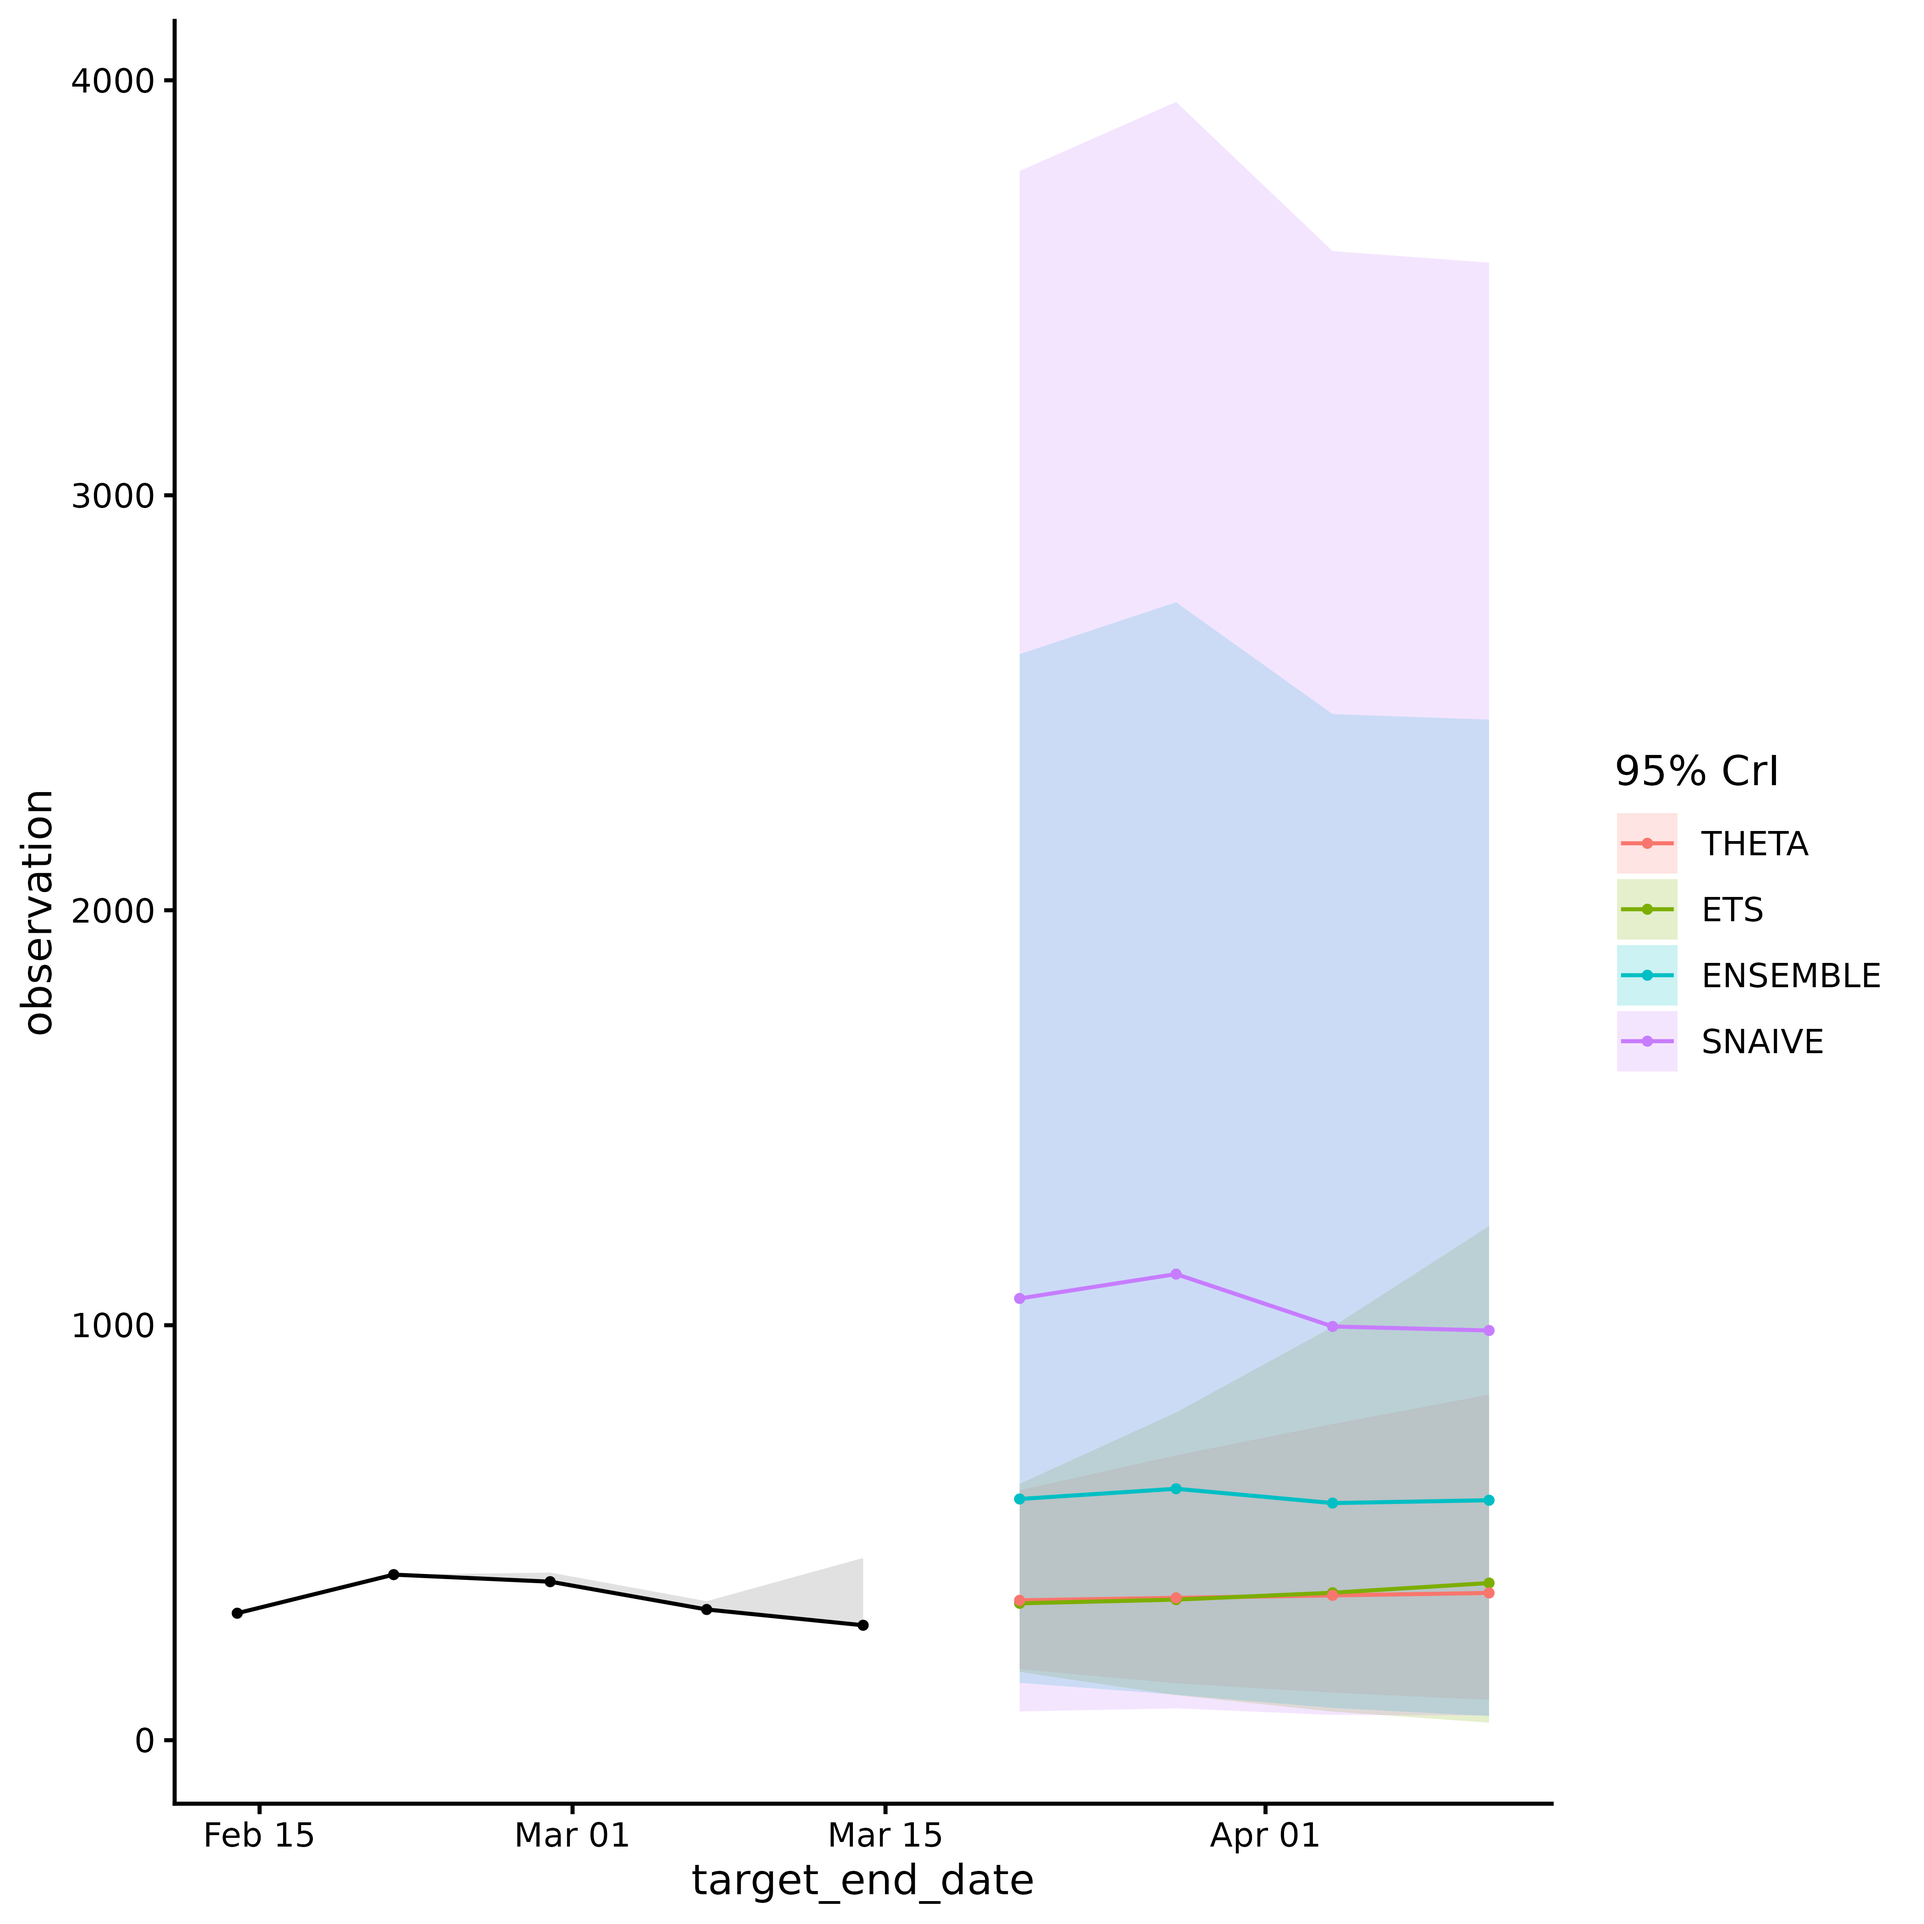
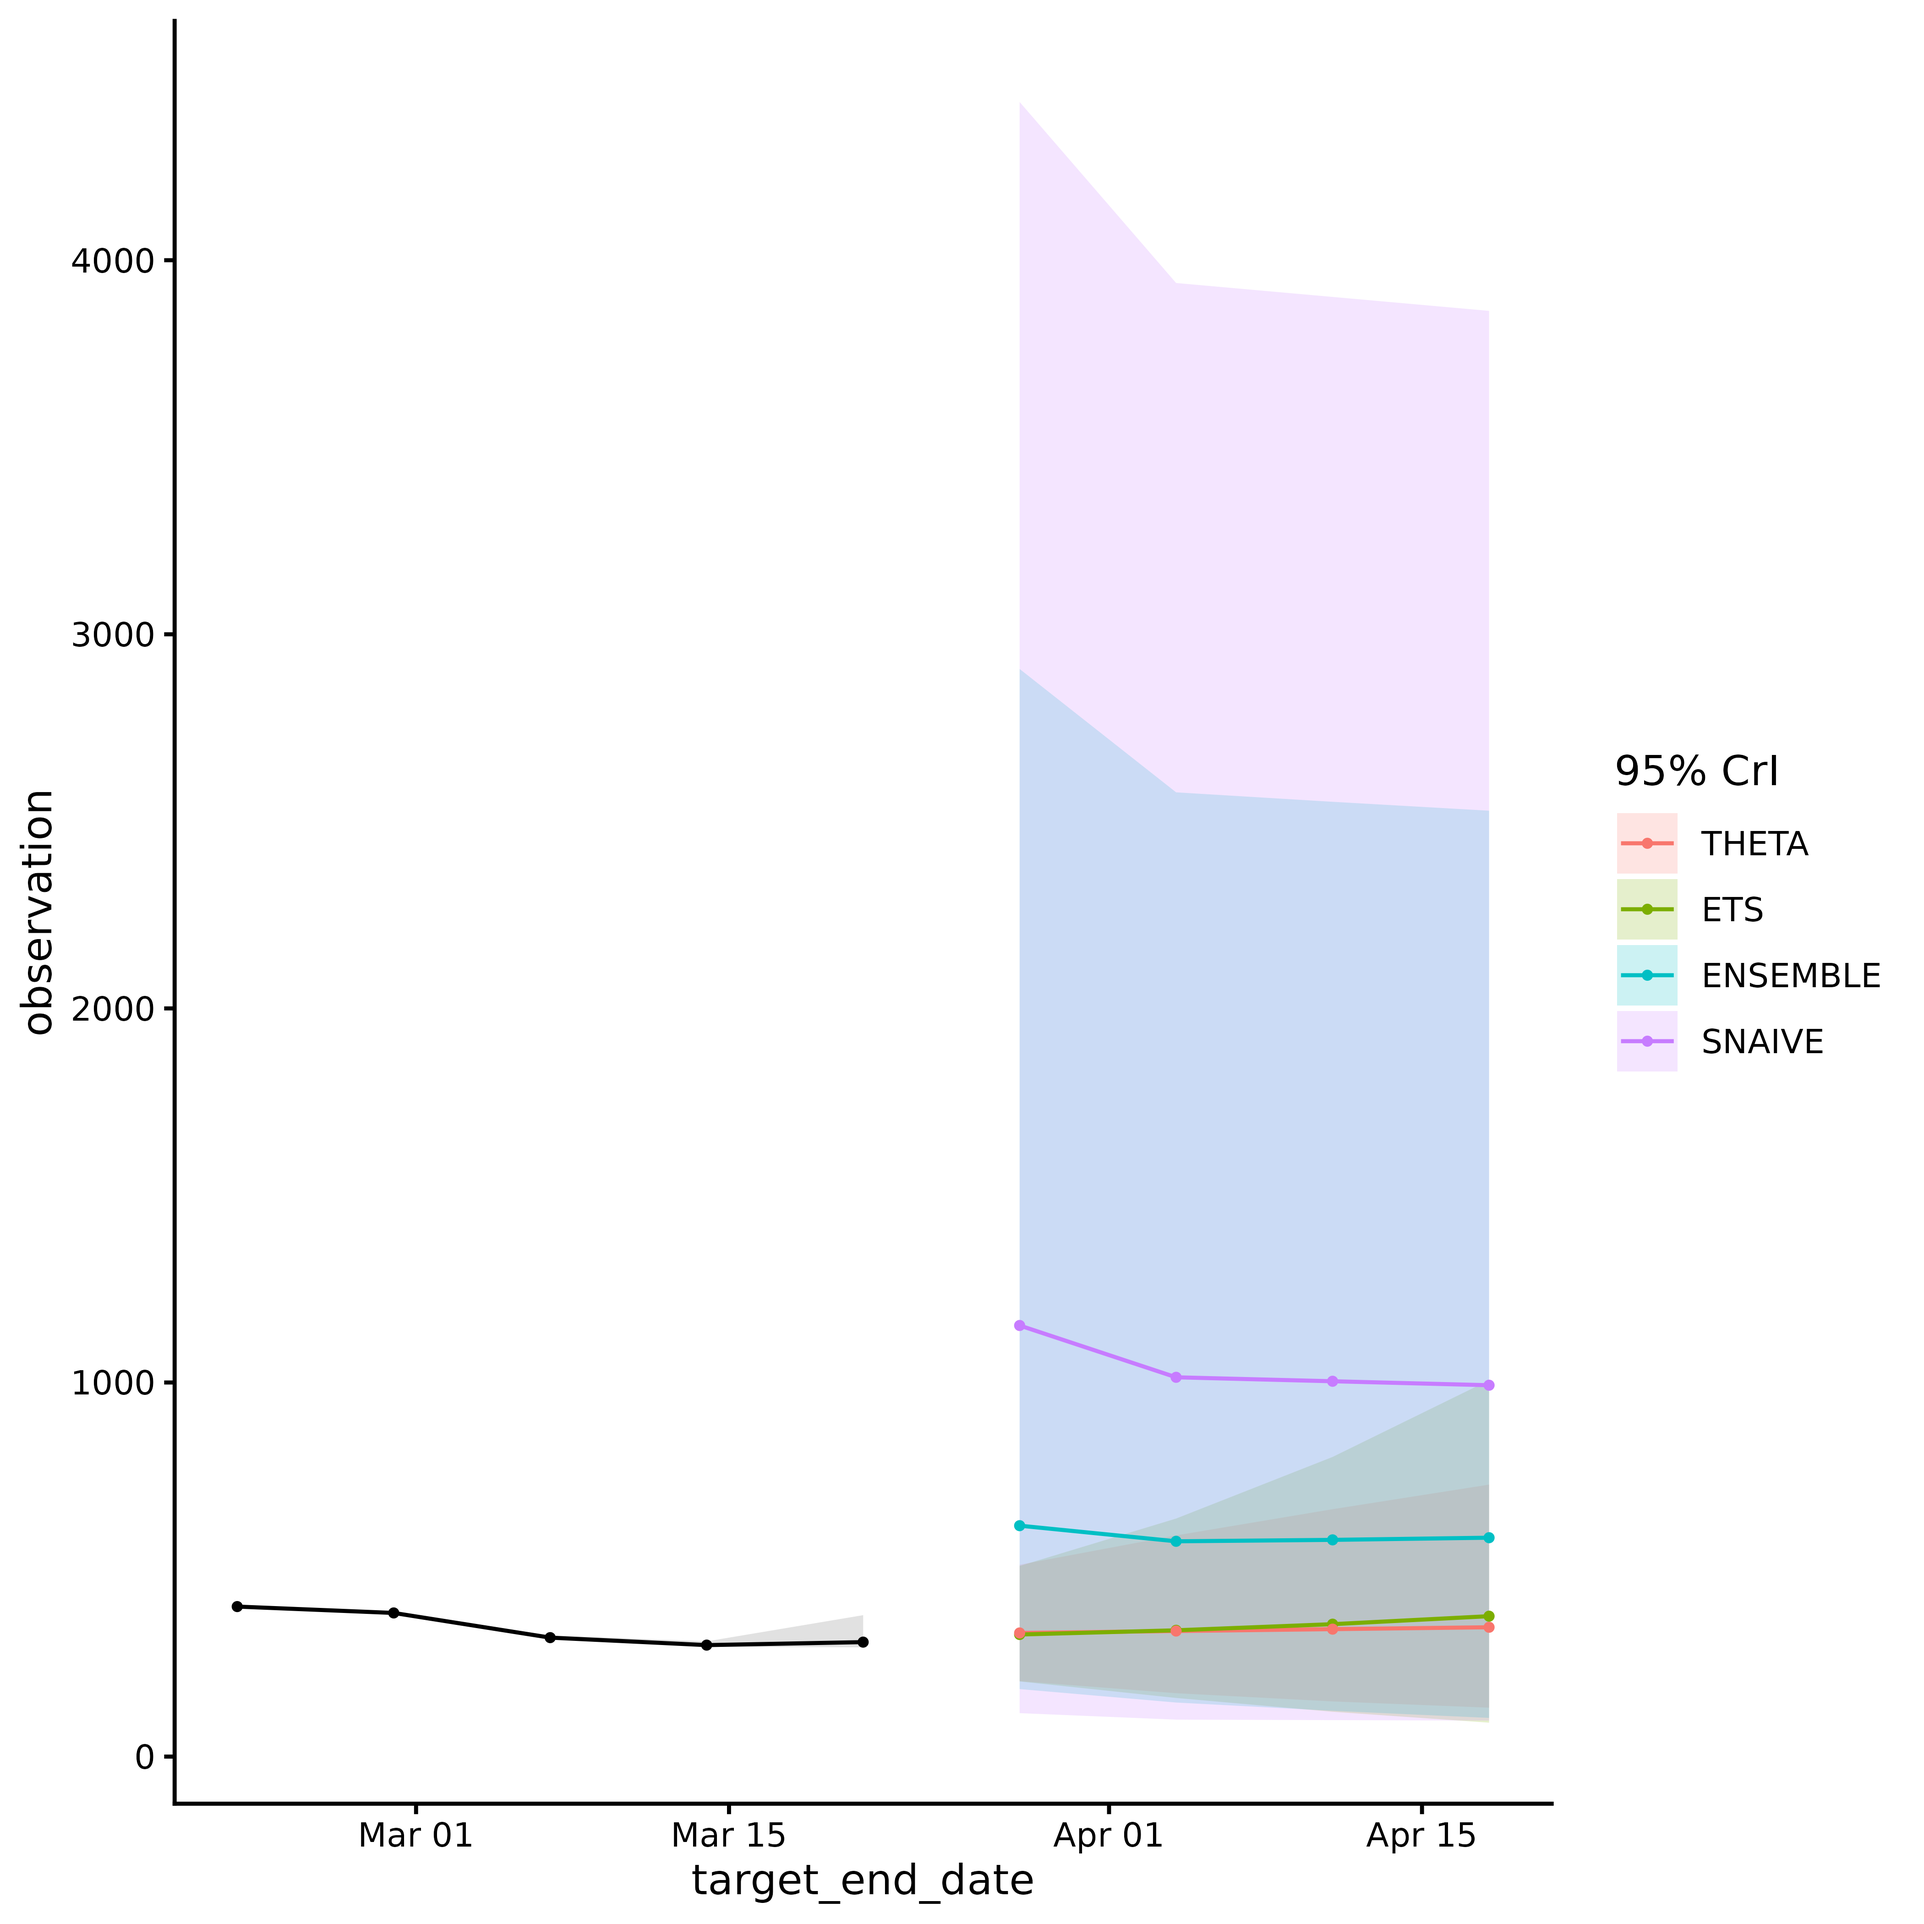
Deploying to gh-pages from @ ACCIDDA/acciddasuite@6ad617f50e384ec4112454da09e79848813a386f 🚀

diff --git a/articles/acciddasuite.html b/articles/acciddasuite.html
@@ -118,8 +118,8 @@ object:</p>
 <span><span class="co">#&gt; </span></span>
 <span><span class="co">#&gt; Location: NY </span></span>
 <span><span class="co">#&gt; Target:   wk inc covid hosp </span></span>
-<span><span class="co">#&gt; Window:   2020-08-08 to 2026-03-14 ( 293 dates )</span></span>
-<span><span class="co">#&gt; History:  TRUE ( 2024-11-17 to 2026-03-15 )</span></span></code></pre></div>
+<span><span class="co">#&gt; Window:   2020-08-08 to 2026-03-21 ( 294 dates )</span></span>
+<span><span class="co">#&gt; History:  TRUE ( 2024-11-17 to 2026-03-22 )</span></span></code></pre></div>
 <p>You can also <strong>bring your own data</strong>. Just pass it
 through <code><a href="../reference/check_data.html">check_data()</a></code>. See
 <code><a href="../articles/external_data.html">vignette("external_data")</a></code> for formatting details.</p>
@@ -140,9 +140,9 @@ before that is left untouched.</p>
 <span><span class="va">ncast</span></span>
 <span><span class="co">#&gt; &lt;accidda_ncast&gt;</span></span>
 <span><span class="co">#&gt; </span></span>
-<span><span class="co">#&gt; Nowcasted 4 weeks: 2026-02-21 to 2026-03-14 </span></span>
+<span><span class="co">#&gt; Nowcasted 4 weeks: 2026-02-28 to 2026-03-21 </span></span>
 <span><span class="co">#&gt; </span></span>
-<span><span class="co">#&gt; $data  corrected series (293 rows)</span></span>
+<span><span class="co">#&gt; $data  corrected series (294 rows)</span></span>
 <span><span class="co">#&gt; $plot  nowcast visualisation</span></span></code></pre></div>
 <div class="sourceCode" id="cb3"><pre class="downlit sourceCode r">
 <code class="sourceCode R"><span><span class="va">ncast</span><span class="op">$</span><span class="va">plot</span></span></code></pre></div>
@@ -204,14 +204,14 @@ selection and forecasting steps take.</p>
 <span><span class="co">#&gt; Models evaluated:</span></span>
 <span><span class="co">#&gt;  model_id       wis</span></span>
 <span><span class="co">#&gt;    &lt;char&gt;     &lt;num&gt;</span></span>
-<span><span class="co">#&gt;     THETA  29.60211</span></span>
-<span><span class="co">#&gt;       ETS  34.11226</span></span>
-<span><span class="co">#&gt;  ENSEMBLE  64.08897</span></span>
-<span><span class="co">#&gt;    SNAIVE 240.14106</span></span>
+<span><span class="co">#&gt;     THETA  32.19275</span></span>
+<span><span class="co">#&gt;       ETS  38.12778</span></span>
+<span><span class="co">#&gt;  ENSEMBLE  62.15294</span></span>
+<span><span class="co">#&gt;    SNAIVE 234.21581</span></span>
 <span><span class="co">#&gt; </span></span>
 <span><span class="co">#&gt; Forecast horizon:</span></span>
-<span><span class="co">#&gt;   From: 2026-02-14 </span></span>
-<span><span class="co">#&gt;   To:   2026-04-11 </span></span>
+<span><span class="co">#&gt;   From: 2026-02-21 </span></span>
+<span><span class="co">#&gt;   To:   2026-04-18 </span></span>
 <span><span class="co">#&gt; </span></span>
 <span><span class="co">#&gt; Contents:</span></span>
 <span><span class="co">#&gt;   $hubcast   hub forecast object</span></span>
@@ -227,16 +227,16 @@ the object:</p>
 <span><span class="co">#&gt; Key: &lt;model_id&gt;</span></span>
 <span><span class="co">#&gt;    model_id       wis interval_coverage_50 interval_coverage_95</span></span>
 <span><span class="co">#&gt;      &lt;char&gt;     &lt;num&gt;                &lt;num&gt;                &lt;num&gt;</span></span>
-<span><span class="co">#&gt; 1:    THETA  29.60211                 1.00                    1</span></span>
-<span><span class="co">#&gt; 2:      ETS  34.11226                 1.00                    1</span></span>
-<span><span class="co">#&gt; 3: ENSEMBLE  64.08897                 1.00                    1</span></span>
-<span><span class="co">#&gt; 4:   SNAIVE 240.14106                 0.25                    1</span></span>
+<span><span class="co">#&gt; 1:    THETA  32.19275                 0.50                    1</span></span>
+<span><span class="co">#&gt; 2:      ETS  38.12778                 0.50                    1</span></span>
+<span><span class="co">#&gt; 3: ENSEMBLE  62.15294                 1.00                    1</span></span>
+<span><span class="co">#&gt; 4:   SNAIVE 234.21581                 0.25                    1</span></span>
 <span><span class="co">#&gt;    wis_relative_skill</span></span>
 <span><span class="co">#&gt;                 &lt;num&gt;</span></span>
-<span><span class="co">#&gt; 1:          0.4714677</span></span>
-<span><span class="co">#&gt; 2:          0.5433001</span></span>
-<span><span class="co">#&gt; 3:          1.0207340</span></span>
-<span><span class="co">#&gt; 4:          3.8246854</span></span></code></pre></div>
+<span><span class="co">#&gt; 1:          0.4951523</span></span>
+<span><span class="co">#&gt; 2:          0.5864380</span></span>
+<span><span class="co">#&gt; 3:          0.9559656</span></span>
+<span><span class="co">#&gt; 4:          3.6024407</span></span></code></pre></div>
 <div class="section level3">
 <h3 id="adding-custom-models">Adding custom models<a class="anchor" aria-label="anchor" href="#adding-custom-models"></a>
 </h3>
@@ -265,8 +265,8 @@ be passed via <code>extra_models</code>:</p>
 <code class="sourceCode R"><span><span class="fu">pipetime</span><span class="fu">::</span><span class="fu"><a href="https://rdrr.io/pkg/pipetime/man/get_log.html" class="external-link">get_log</a></span><span class="op">(</span><span class="op">)</span></span>
 <span><span class="co">#&gt; $log</span></span>
 <span><span class="co">#&gt;             timestamp       label duration unit</span></span>
-<span><span class="co">#&gt; 1 2026-03-20 23:18:11  base fcast 19.37087 secs</span></span>
-<span><span class="co">#&gt; 2 2026-03-20 23:18:34 extra fcast 26.19091 secs</span></span></code></pre></div>
+<span><span class="co">#&gt; 1 2026-03-31 15:51:11  base fcast 18.93266 secs</span></span>
+<span><span class="co">#&gt; 2 2026-03-31 15:51:34 extra fcast 26.27124 secs</span></span></code></pre></div>
 </div>
 </div>
 <div class="section level2">

diff --git a/reference/get_data.html b/reference/get_data.html
@@ -95,7 +95,7 @@ which is needed by <code><a href="get_ncast.html">get_ncast</a></code>.</p>
 <span class="r-out co"><span class="r-pr">#&gt;</span> </span>
 <span class="r-out co"><span class="r-pr">#&gt;</span> Location: NY </span>
 <span class="r-out co"><span class="r-pr">#&gt;</span> Target:   wk inc covid hosp </span>
-<span class="r-out co"><span class="r-pr">#&gt;</span> Window:   2020-08-08 to 2026-03-14 ( 293 dates )</span>
+<span class="r-out co"><span class="r-pr">#&gt;</span> Window:   2020-08-08 to 2026-03-21 ( 294 dates )</span>
 <span class="r-out co"><span class="r-pr">#&gt;</span> History:  FALSE</span>
 <span class="r-in"><span></span></span>
 <span class="r-in"><span><span class="co"># Fetch revision history for nowcasting</span></span></span>
@@ -104,8 +104,8 @@ which is needed by <code><a href="get_ncast.html">get_ncast</a></code>.</p>
 <span class="r-out co"><span class="r-pr">#&gt;</span> </span>
 <span class="r-out co"><span class="r-pr">#&gt;</span> Location: CA </span>
 <span class="r-out co"><span class="r-pr">#&gt;</span> Target:   wk inc covid hosp </span>
-<span class="r-out co"><span class="r-pr">#&gt;</span> Window:   2020-08-08 to 2026-03-14 ( 293 dates )</span>
-<span class="r-out co"><span class="r-pr">#&gt;</span> History:  TRUE ( 2024-11-17 to 2026-03-15 )</span>
+<span class="r-out co"><span class="r-pr">#&gt;</span> Window:   2020-08-08 to 2026-03-21 ( 294 dates )</span>
+<span class="r-out co"><span class="r-pr">#&gt;</span> History:  TRUE ( 2024-11-17 to 2026-03-22 )</span>
 </code></pre></div>
     </div>
   </main><aside class="col-md-3"><nav id="toc" aria-label="Table of contents"><h2>On this page</h2>

diff --git a/articles/acciddasuite.md b/articles/acciddasuite.md
@@ -48,8 +48,8 @@ df
 #> 
 #> Location: NY 
 #> Target:   wk inc covid hosp 
-#> Window:   2020-08-08 to 2026-03-14 ( 293 dates )
-#> History:  TRUE ( 2024-11-17 to 2026-03-15 )
+#> Window:   2020-08-08 to 2026-03-21 ( 294 dates )
+#> History:  TRUE ( 2024-11-17 to 2026-03-22 )
 ```
 
 You can also **bring your own data**. Just pass it through
@@ -75,9 +75,9 @@ ncast <- get_ncast(df)
 ncast
 #> <accidda_ncast>
 #> 
-#> Nowcasted 4 weeks: 2026-02-21 to 2026-03-14 
+#> Nowcasted 4 weeks: 2026-02-28 to 2026-03-21 
 #> 
-#> $data  corrected series (293 rows)
+#> $data  corrected series (294 rows)
 #> $plot  nowcast visualisation
 ```
 
@@ -147,14 +147,14 @@ fcast
 #> Models evaluated:
 #>  model_id       wis
 #>    <char>     <num>
-#>     THETA  29.60211
-#>       ETS  34.11226
-#>  ENSEMBLE  64.08897
-#>    SNAIVE 240.14106
+#>     THETA  32.19275
+#>       ETS  38.12778
+#>  ENSEMBLE  62.15294
+#>    SNAIVE 234.21581
 #> 
 #> Forecast horizon:
-#>   From: 2026-02-14 
-#>   To:   2026-04-11 
+#>   From: 2026-02-21 
+#>   To:   2026-04-18 
 #> 
 #> Contents:
 #>   $hubcast   hub forecast object
@@ -175,16 +175,16 @@ fcast$score
 #> Key: <model_id>
 #>    model_id       wis interval_coverage_50 interval_coverage_95
 #>      <char>     <num>                <num>                <num>
-#> 1:    THETA  29.60211                 1.00                    1
-#> 2:      ETS  34.11226                 1.00                    1
-#> 3: ENSEMBLE  64.08897                 1.00                    1
-#> 4:   SNAIVE 240.14106                 0.25                    1
+#> 1:    THETA  32.19275                 0.50                    1
+#> 2:      ETS  38.12778                 0.50                    1
+#> 3: ENSEMBLE  62.15294                 1.00                    1
+#> 4:   SNAIVE 234.21581                 0.25                    1
 #>    wis_relative_skill
 #>                 <num>
-#> 1:          0.4714677
-#> 2:          0.5433001
-#> 3:          1.0207340
-#> 4:          3.8246854
+#> 1:          0.4951523
+#> 2:          0.5864380
+#> 3:          0.9559656
+#> 4:          3.6024407
 ```
 
 ### Adding custom models
@@ -218,8 +218,8 @@ You can check how long each step took by calling
 pipetime::get_log()
 #> $log
 #>             timestamp       label duration unit
-#> 1 2026-03-20 23:18:11  base fcast 19.37087 secs
-#> 2 2026-03-20 23:18:34 extra fcast 26.19091 secs
+#> 1 2026-03-31 15:51:11  base fcast 18.93266 secs
+#> 2 2026-03-31 15:51:34 extra fcast 26.27124 secs
 ```
 
 ## Submit to RespiLens

diff --git a/reference/get_data.md b/reference/get_data.md
@@ -59,7 +59,7 @@ get_data(pathogen = "covid", geo_value = "ny")
 #> 
 #> Location: NY 
 #> Target:   wk inc covid hosp 
-#> Window:   2020-08-08 to 2026-03-14 ( 293 dates )
+#> Window:   2020-08-08 to 2026-03-21 ( 294 dates )
 #> History:  FALSE
 
 # Fetch revision history for nowcasting
@@ -68,6 +68,6 @@ get_data(pathogen = "covid", geo_value = "ca", revisions = TRUE)
 #> 
 #> Location: CA 
 #> Target:   wk inc covid hosp 
-#> Window:   2020-08-08 to 2026-03-14 ( 293 dates )
-#> History:  TRUE ( 2024-11-17 to 2026-03-15 )
+#> Window:   2020-08-08 to 2026-03-21 ( 294 dates )
+#> History:  TRUE ( 2024-11-17 to 2026-03-22 )
 ```
